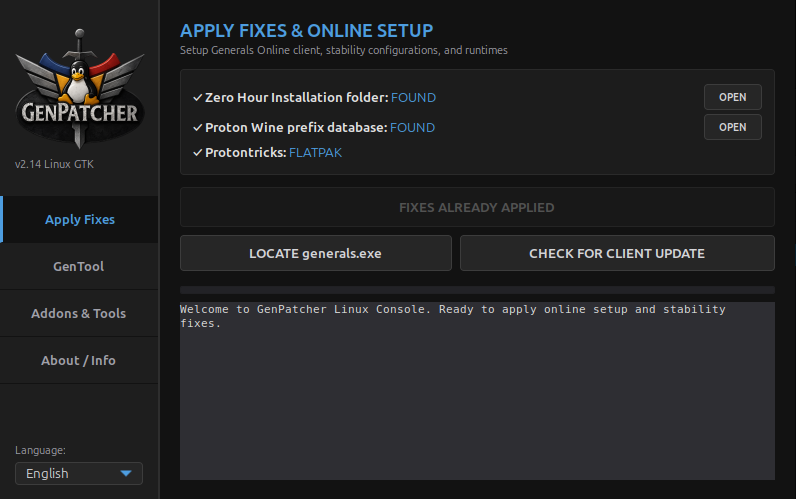
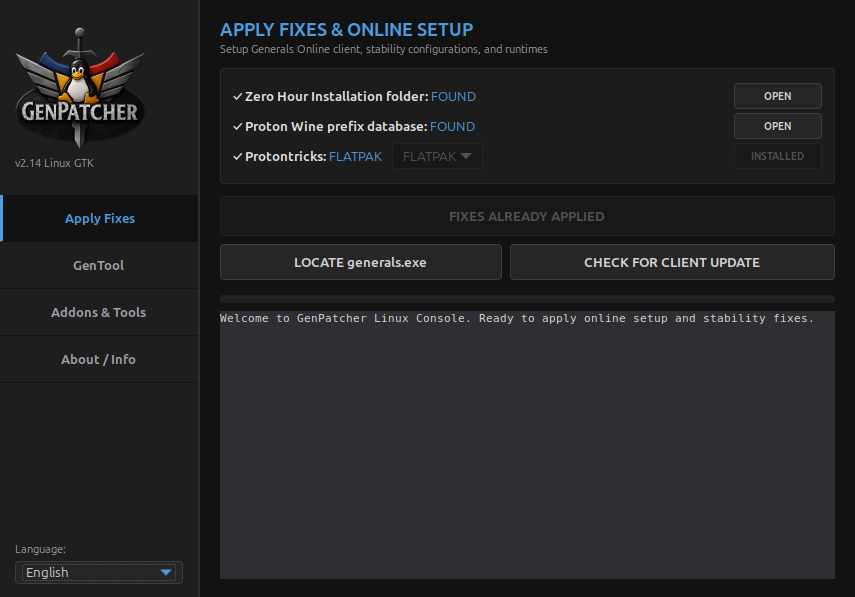
Updated readme and screenshots

diff --git a/README.md b/README.md
@@ -54,7 +54,16 @@ The graphical user interface is built on PyGObject (GTK 3). Install the necessar
 ---
 
 
-## Installation & Setup
+## Usage
+
+
+### Download AppImage
+
+Download the latest AppImage from the [releases page](https://github.com/Fennek88/GenPatcher-Linux/releases).
+Then Double-click the AppImage to run it.
+
+
+### Clone repository and run Python app
 
 To clone and run the application:
 
@@ -63,11 +72,6 @@ git clone https://github.com/Fennek88/GenPatcher-Linux
 cd GenPatcher-Linux
 python3 GenPatcher.py
 ```
-
-### Download AppImage
-
-Download the latest AppImage from the [releases page](https://github.com/Fennek88/GenPatcher-Linux/releases).
-Then Double-click the AppImage to run it.
 
 ---
 
